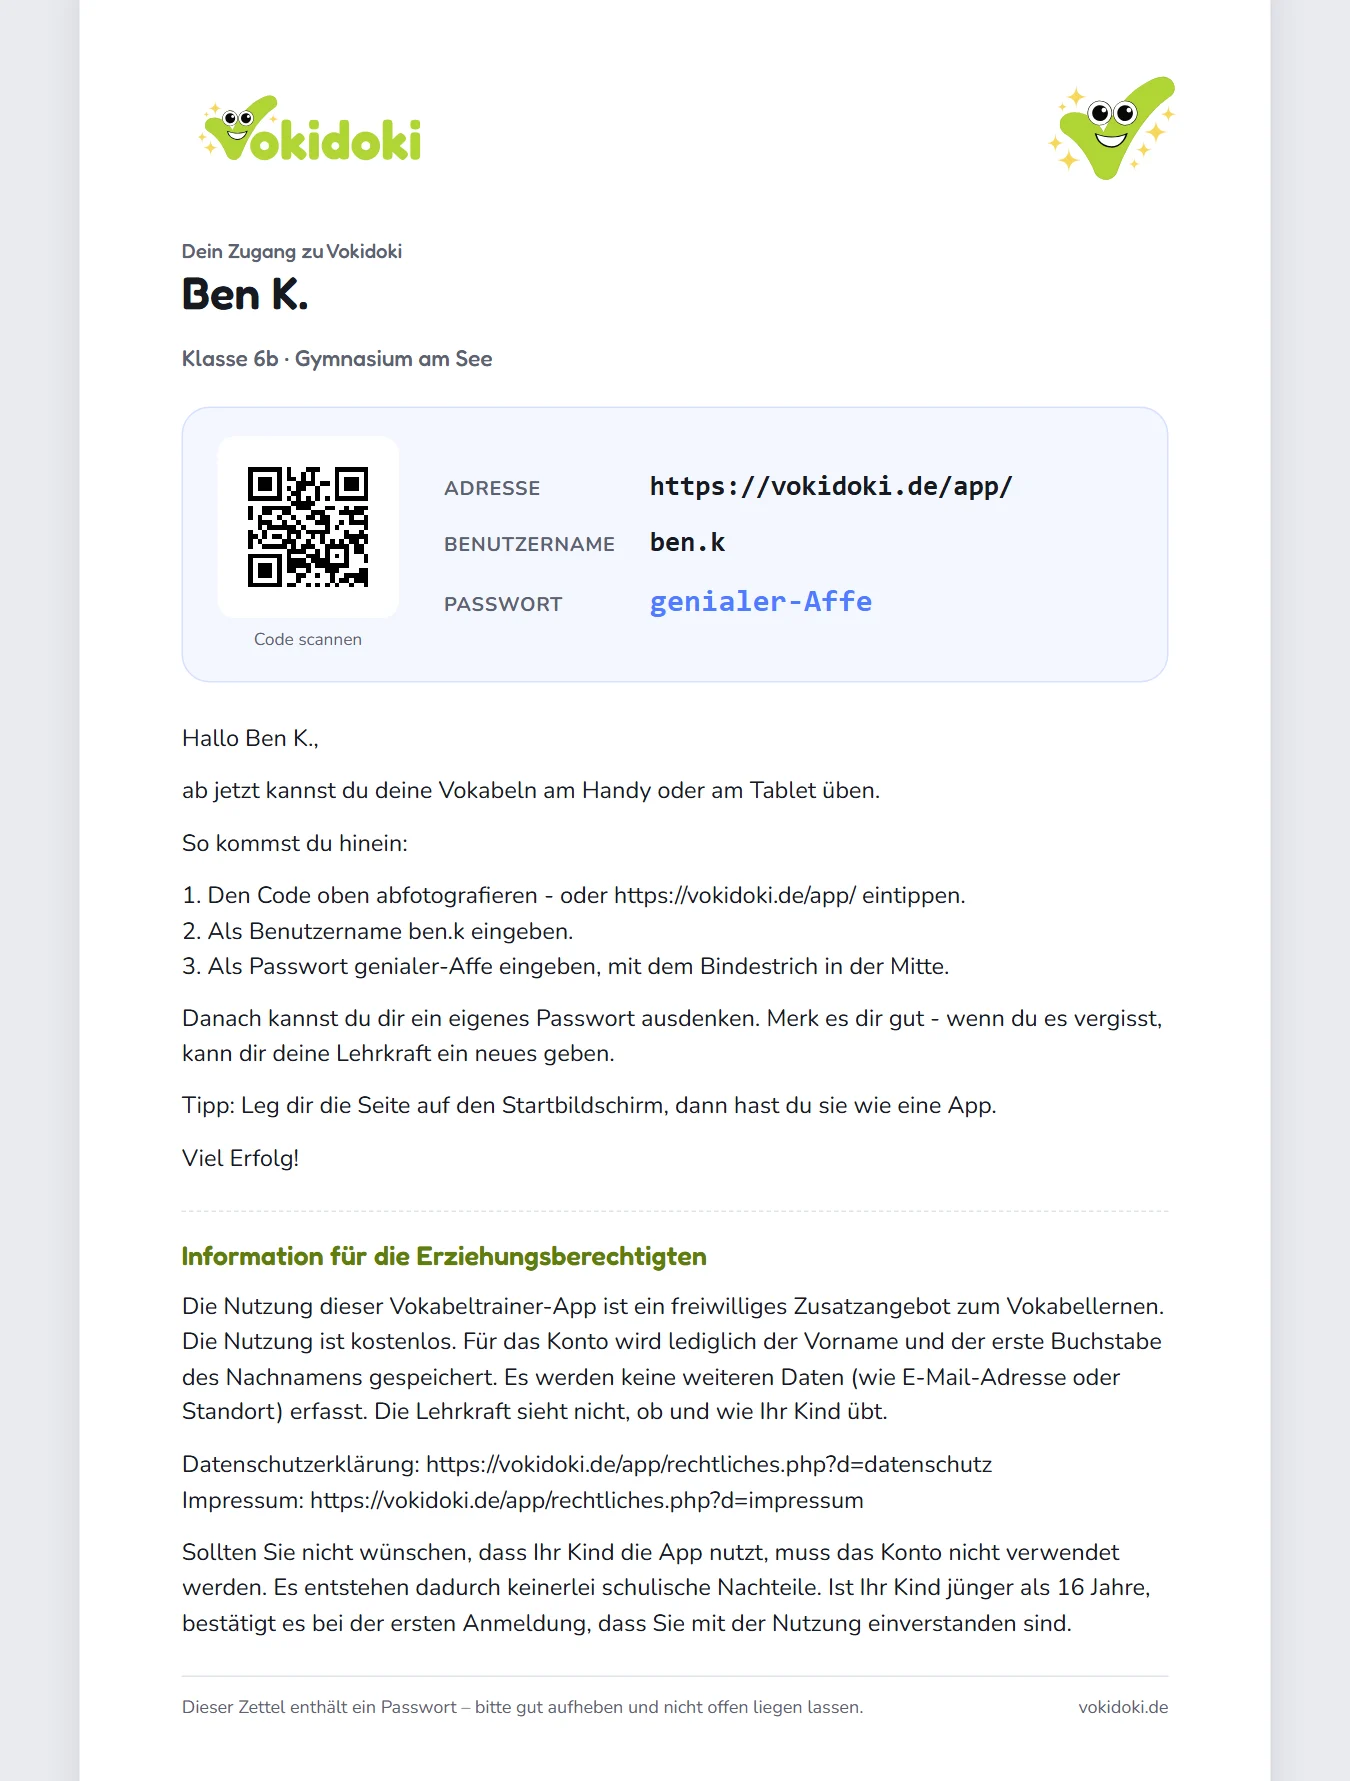
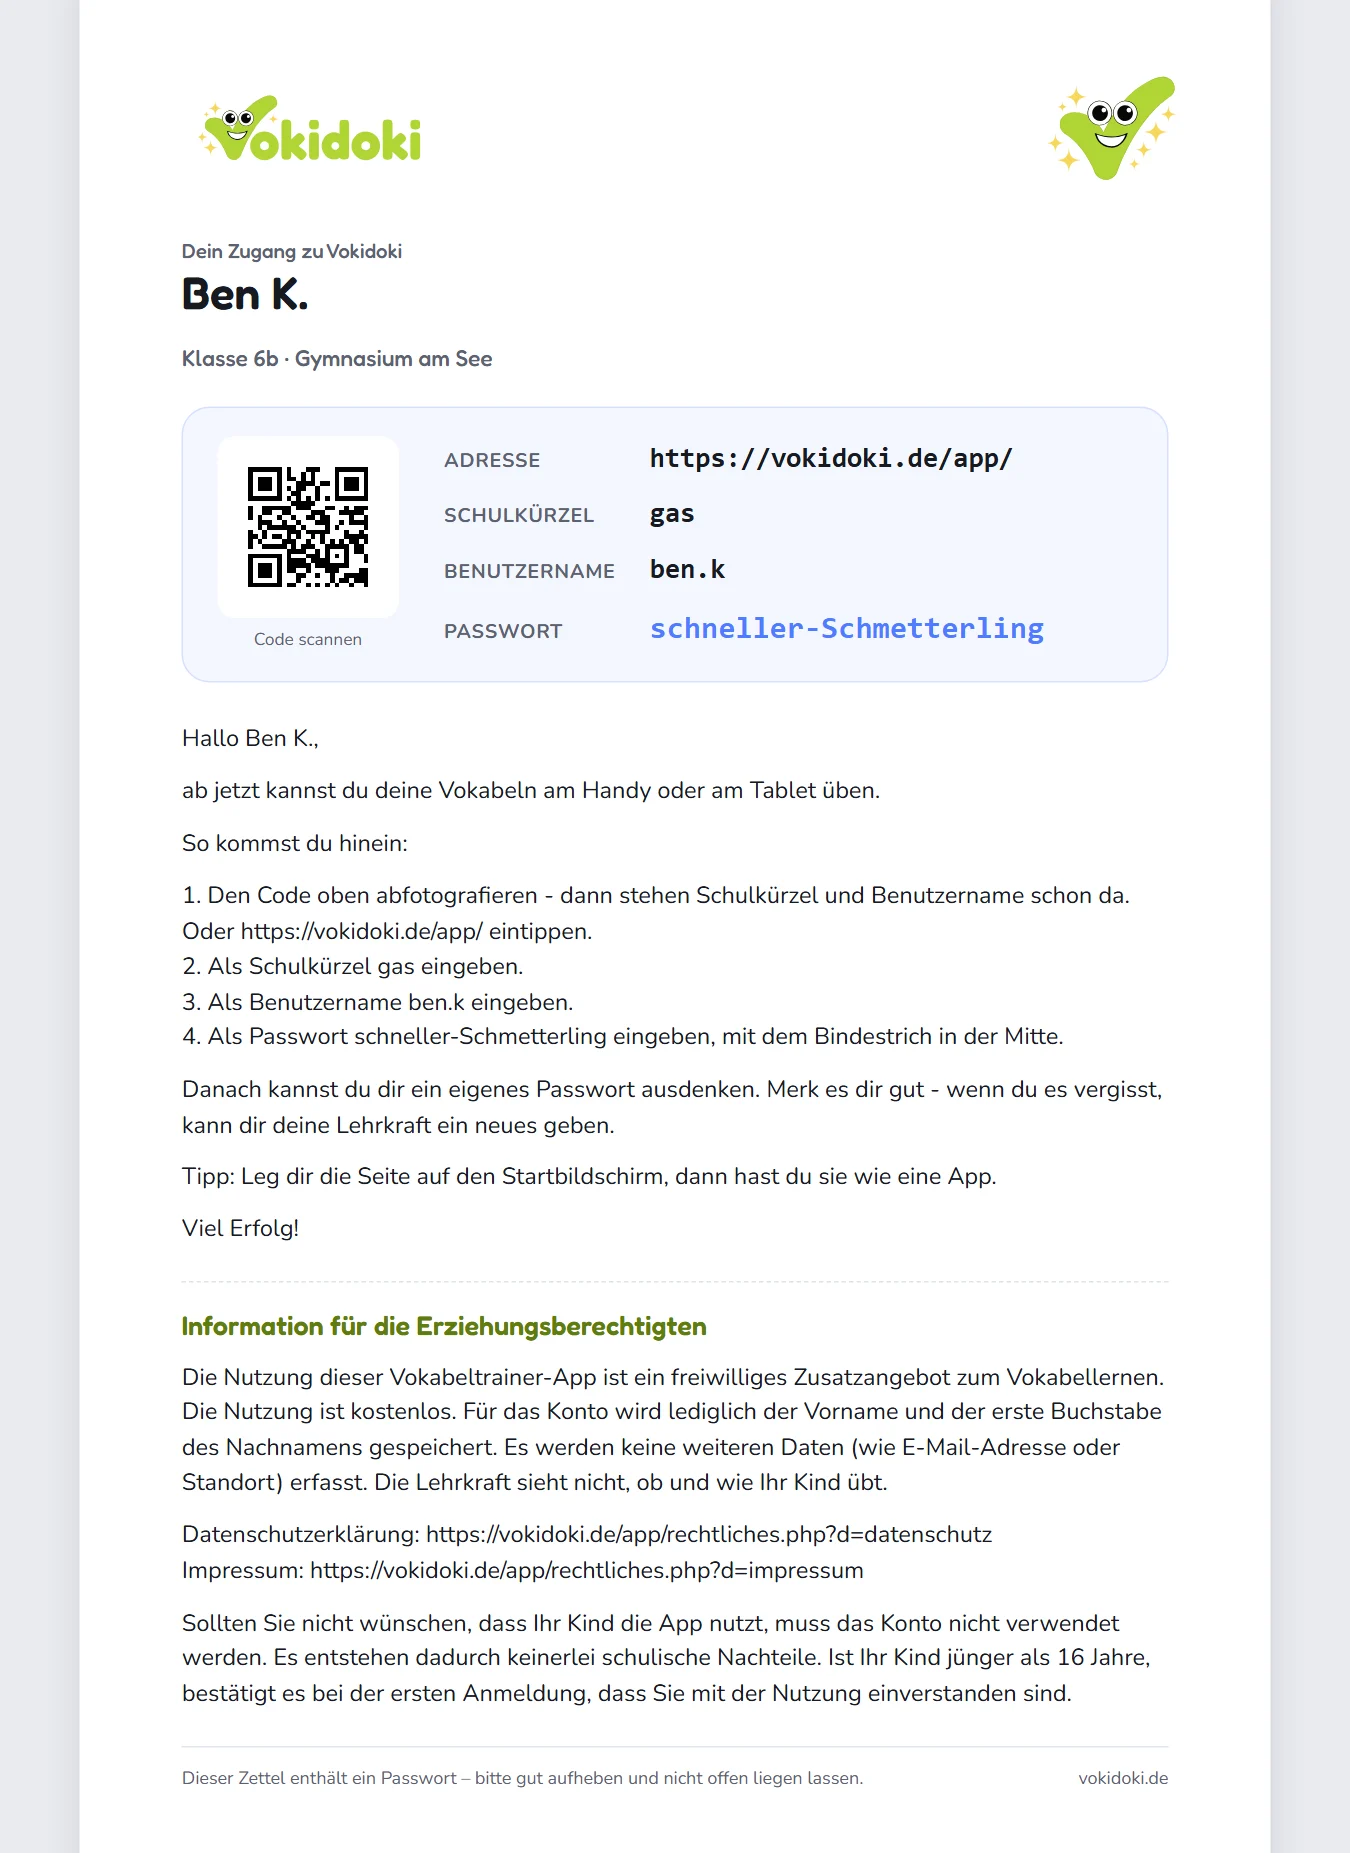
Startseite: Bildschirmfotos mit Schulkuerzel auf dem Zettel
Claude-Session: https://claude.ai/code/session_015eqrhjzHJfnhtZvJk2Fhpk

diff --git a/website/index.html b/website/index.html
@@ -730,7 +730,7 @@ dialog.ablauf::backdrop { background: rgba(10, 14, 22, .5); }
                     </div>
                     <div class="fenster" style="position:absolute;right:0;bottom:0;width:46%">
                         <img src="bilder/lehrer-zettel.webp" loading="lazy"
-                             alt="Ein Zettel für ein Kind: QR-Code, Adresse, Benutzername und Passwort, darunter eine kurze Anleitung"
+                             alt="Ein Zettel für ein Kind: QR-Code, Adresse, Schulkürzel, Benutzername und Passwort, darunter eine kurze Anleitung"
                              width="1350" height="1265">
                     </div>
                 </div>
